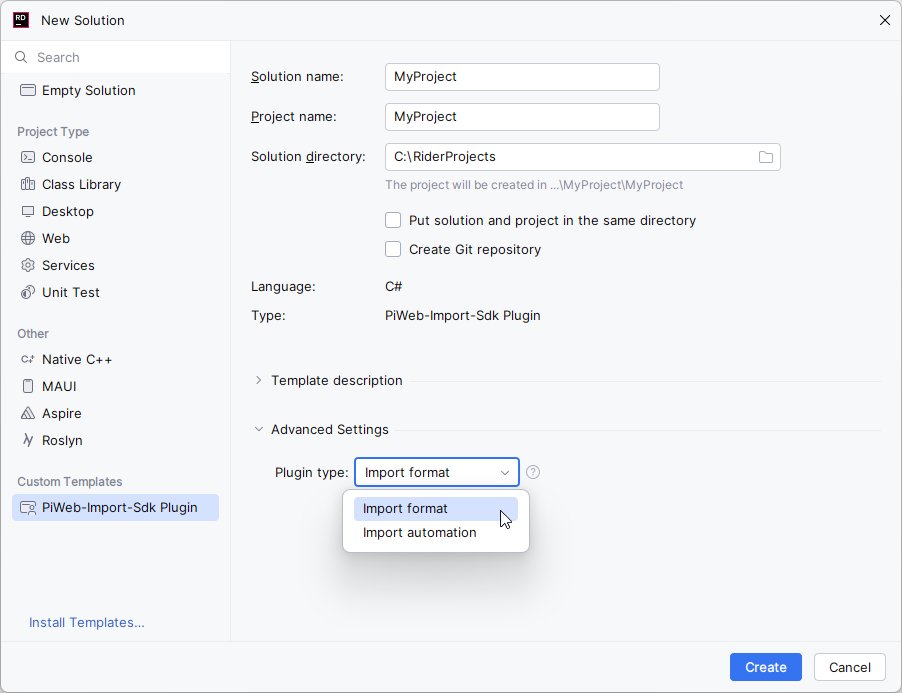
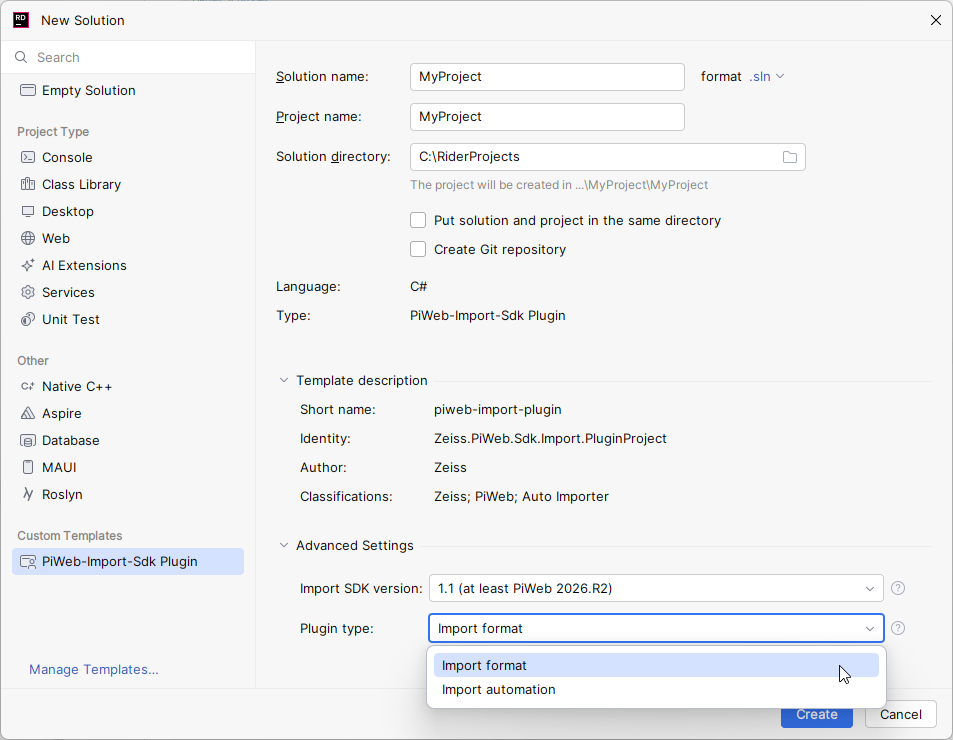
feat: Update project template documentation to include SDK version selection

diff --git a/docs/setup/development_environment.md b/docs/setup/development_environment.md
@@ -16,7 +16,7 @@ Before we can actually start to develop a plug-in, we need to setup our developm
 
 ## Installing the .NET SDK
 
-To develop import plug-ins, you need a working *.NET* development environment. At minimum this requires installing a *.NET SDK*. We recommend to use the most current release of *.NET SDK 8.0* ([download](https://dotnet.microsoft.com/en-us/download/dotnet/8.0){:target="_blank"}) as this will be compatible to all *PiWeb Auto Importer* versions supporting plug-ins.   
+To develop import plug-ins, you need a working *.NET* development environment. At minimum this requires installing a *.NET SDK*. We recommend to install the most current release of *.NET SDK 8.0* ([download](https://dotnet.microsoft.com/en-us/download/dotnet/8.0){:target="_blank"}) and *.NET SDK 10.0* ([download](https://dotnet.microsoft.com/en-us/download/dotnet/10.0){:target="_blank"}) as this will be compatible to all available *PiWeb Import SDK* versions.   
 
 Some IDEs like *Visual Studio* may already take care of installing the *.NET SDK* for you. *Visual Studio* for example will install the *.NET SDK* when the workload *.NET desktop development* is checked during installation.
 
@@ -26,6 +26,9 @@ Some IDEs like *Visual Studio* may already take care of installing the *.NET SDK
 After installing the *.NET SDK* you can use your favorite IDE to develop import plug-ins. To make creating new plugin projects easier, we provide a project template. This template automatically creates the correct filesystem structure including a basic manifest file. It also adds the *PiWeb Import SDK* NuGet package to the new project for you.
 
 .NET provides command line tooling for installing project templates from NuGet. To install our project template, open a terminal and run `dotnet new install Zeiss.PiWeb.Sdk.Import.ProjectTemplates`. IDEs supporting this mechanism will now offer a template called `PiWeb-Import-Sdk Plugin` when creating a new project.
+
+{: .note }
+The same command can also be used to update an already installed project template. If you are missing versions in the Import SDK selection or any other settings, you may need to update your project template.
 
 ### Usage in Visual Studio
 {: .no_toc }

diff --git a/docs/writing_plugins/import_automation.md b/docs/writing_plugins/import_automation.md
@@ -102,6 +102,7 @@ private static DataServiceRestClient CreateDataServiceClient(Uri uri, IAuthData 
 {
   var authenticationHandler = authData.AuthType switch
   {
+    AuthType.None => NonInteractiveAuthenticationHandler.Basic(string.Empty, string.Empty),
     AuthType.Basic => NonInteractiveAuthenticationHandler.Basic(authData.Username, authData.Password),
     AuthType.WindowsSSO => NonInteractiveAuthenticationHandler.WindowsSSO(),
     AuthType.Certificate => NonInteractiveAuthenticationHandler.Certificate(authData.CertificateThumbprint),
